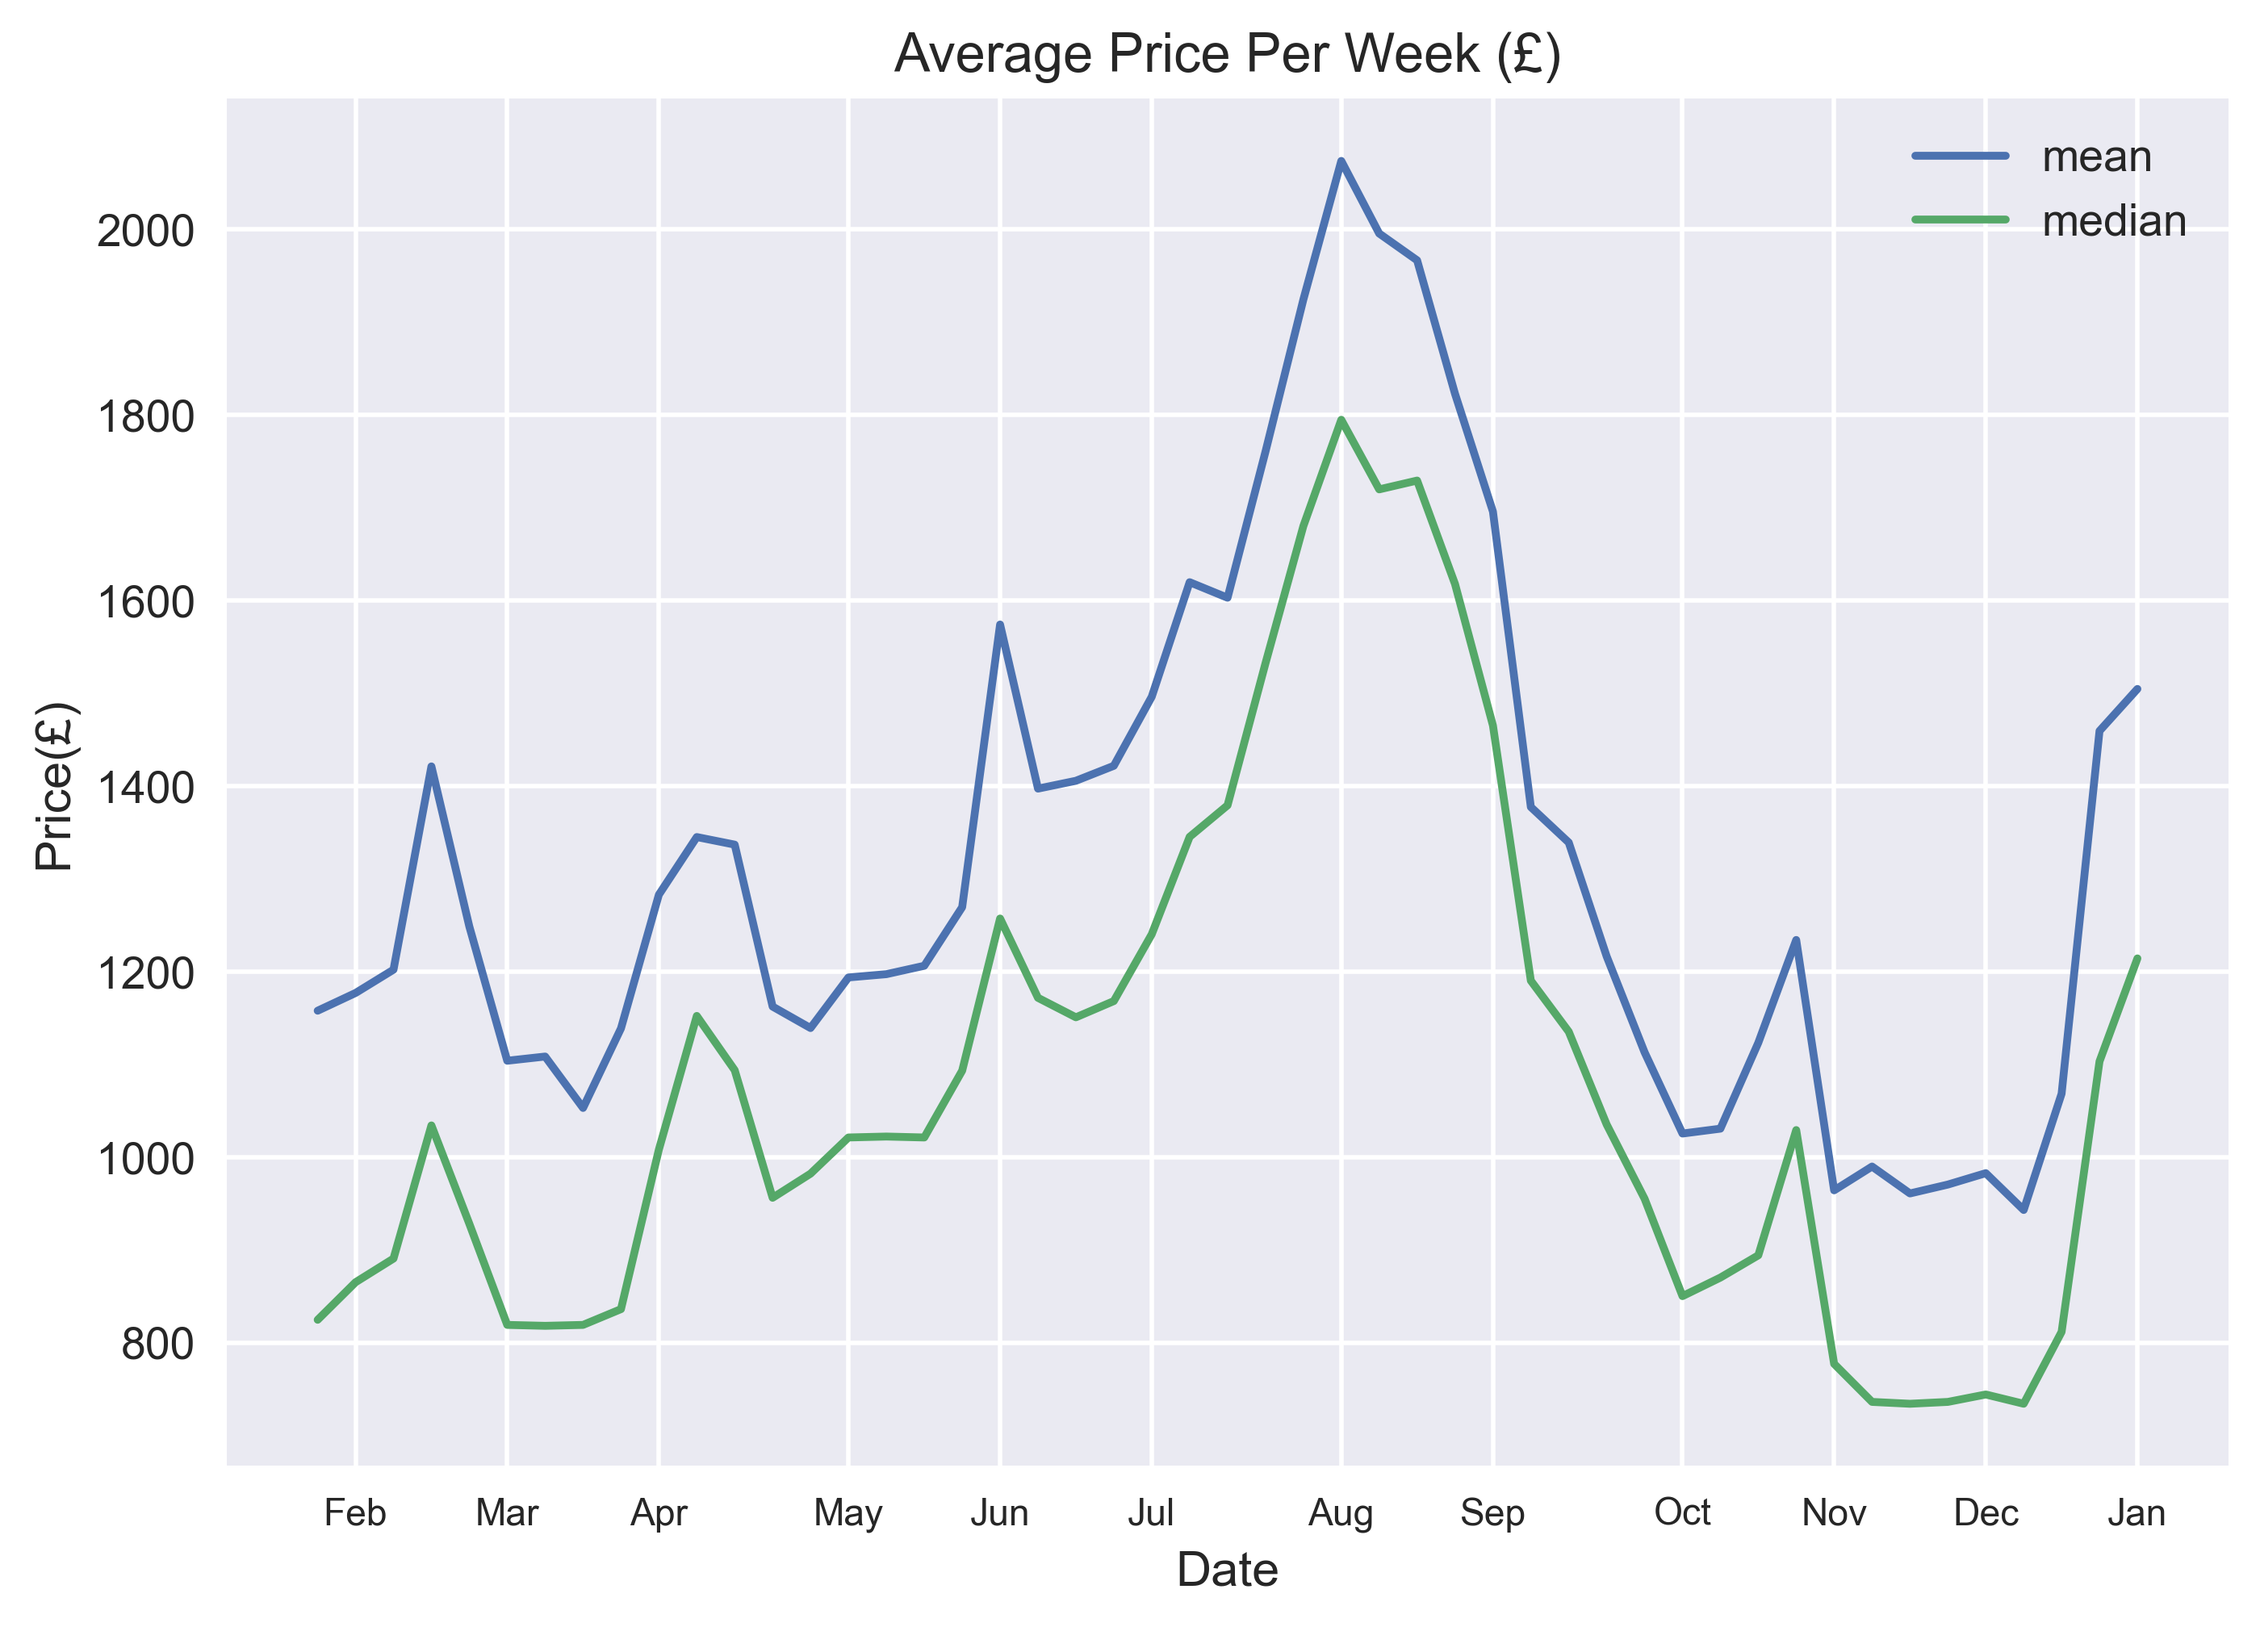
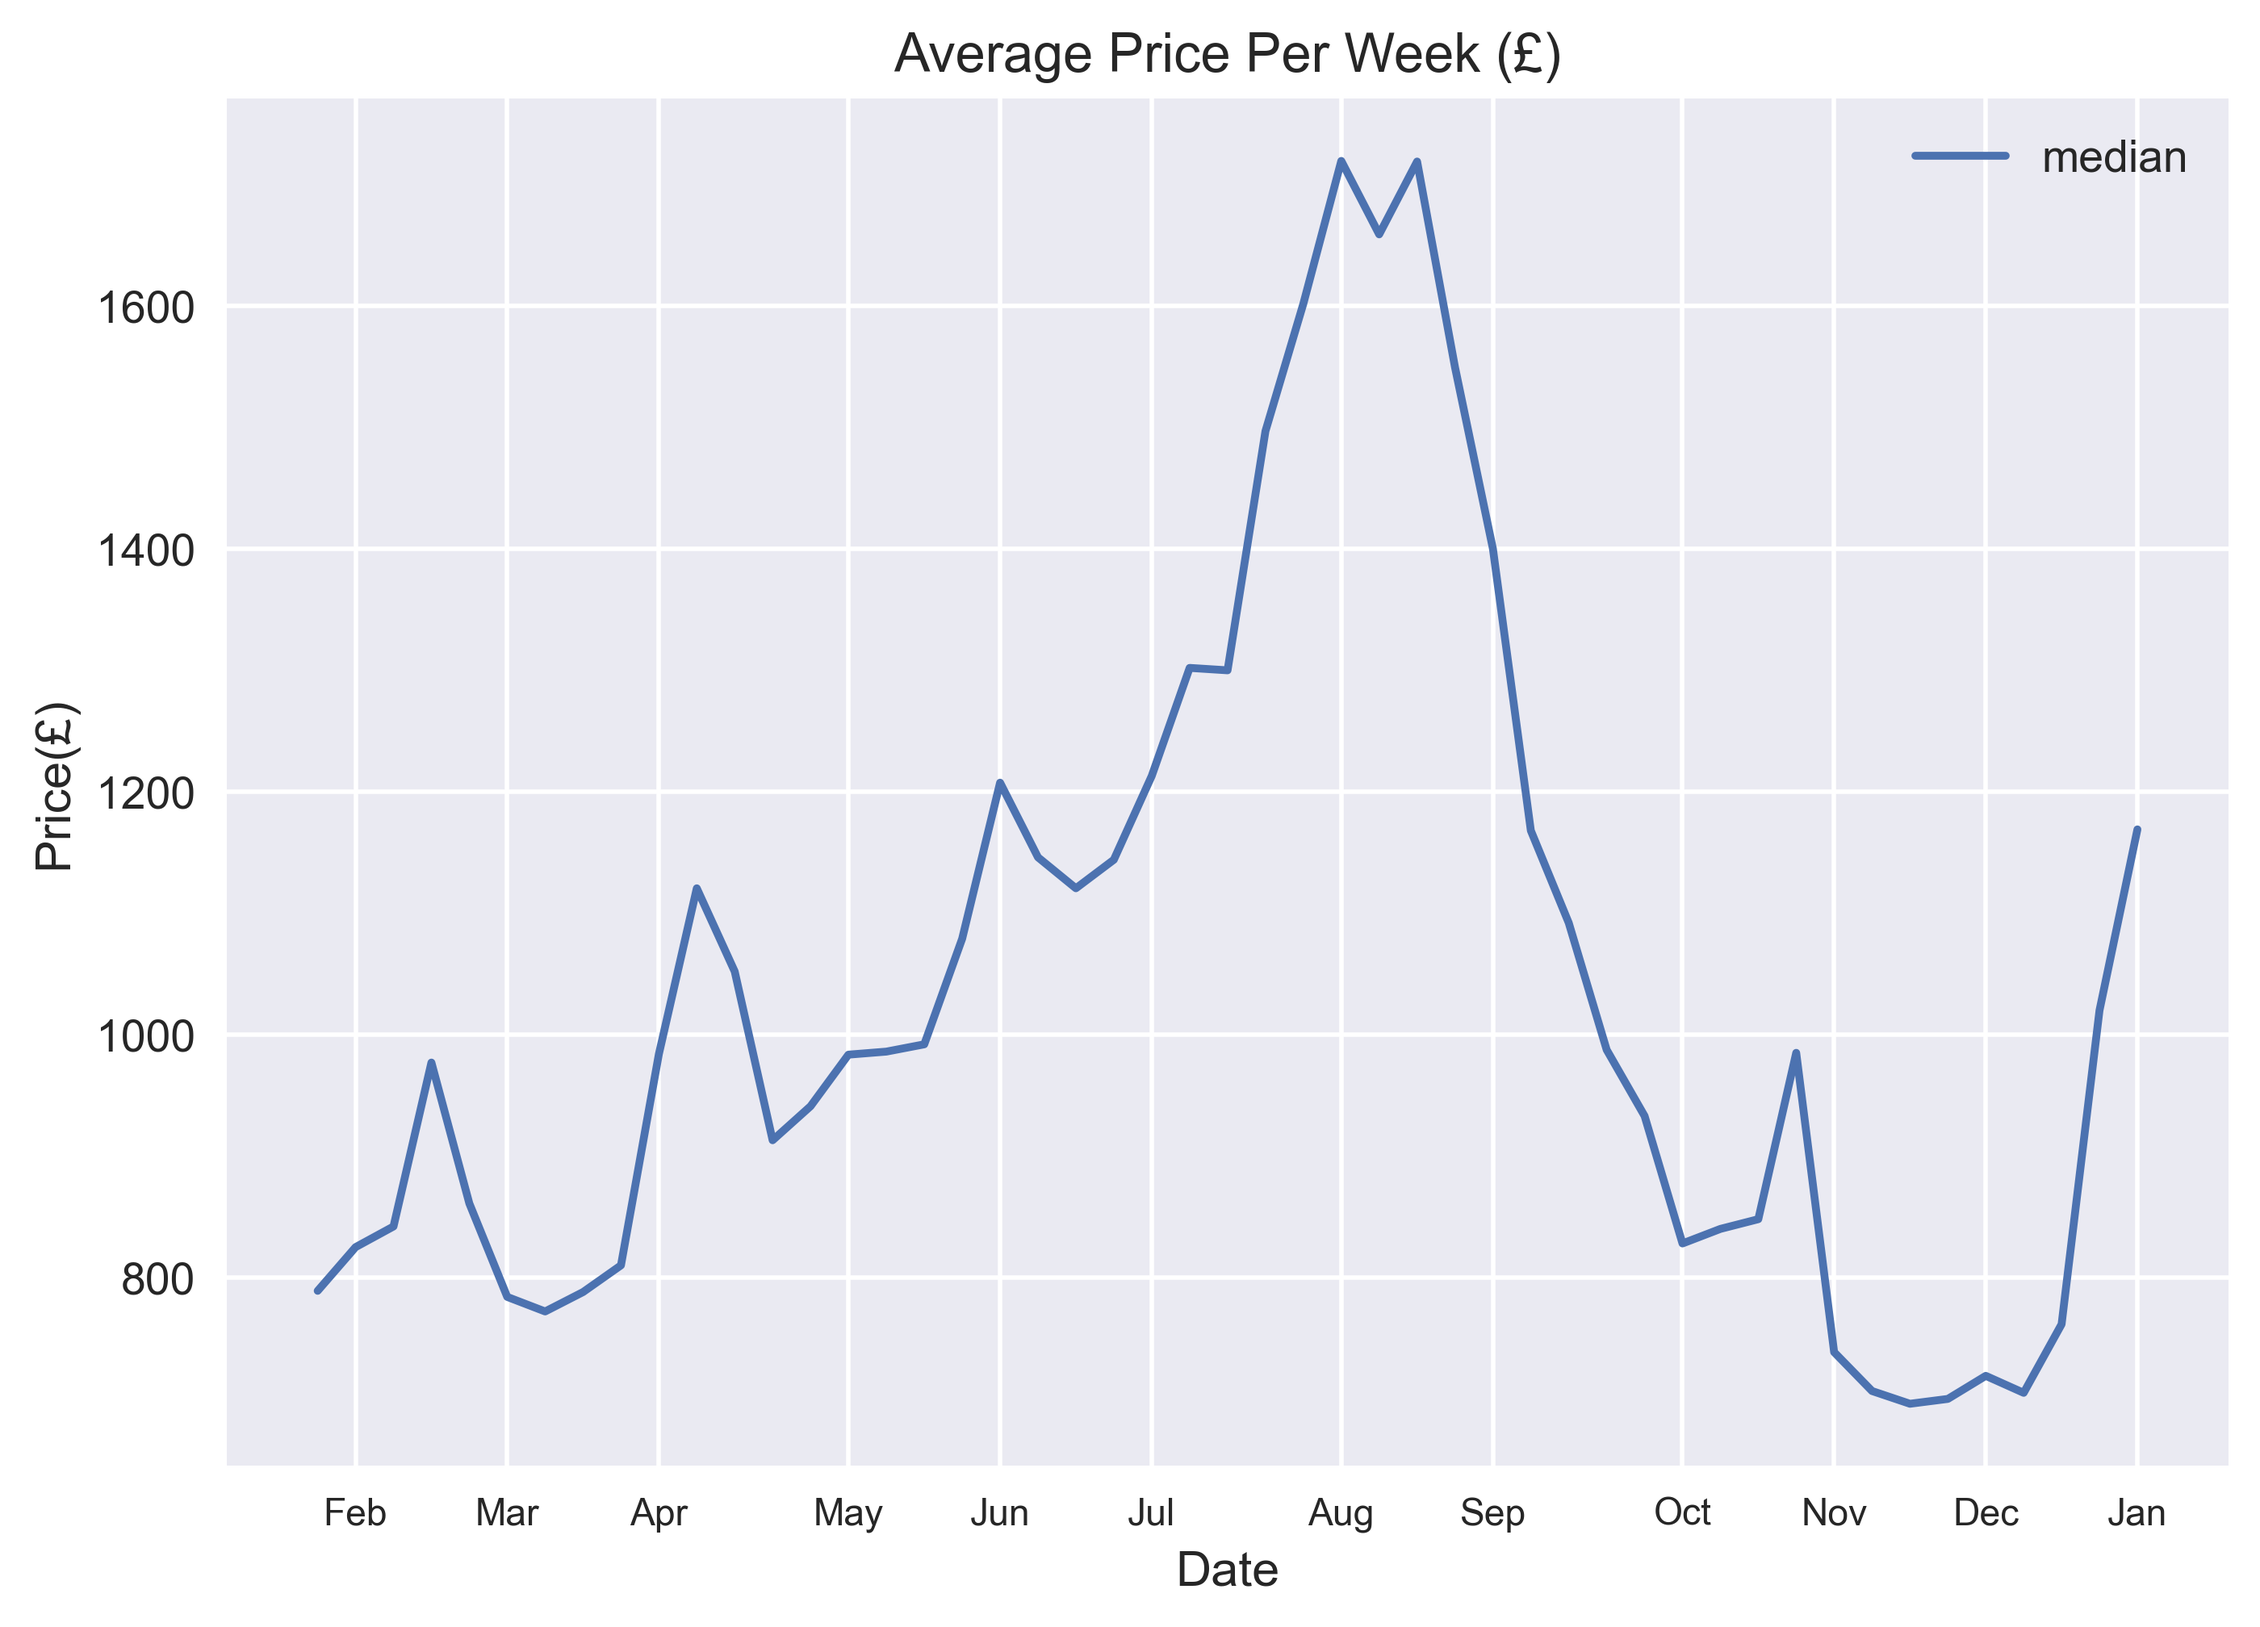
Refactored all_prop_graphs and updated graphs

diff --git a/analysis/all_prop_graphs.py b/analysis/all_prop_graphs.py
@@ -19,20 +19,15 @@ plt.style.use('seaborn')
 
 print(avg_all)
 
-avg = avg_all.plot.line(x='date', y=['mean', 'median'], title='Average Price Per Week (£)')
-avg.set_xlabel('Date')
-avg.set_ylabel('Price(£)')
-avg.set_xticks(month_index)
-avg.set_xticklabels(months, fontsize='small')
+def graph(col, title, output=False):
+    avg = avg_all.plot.line(x='date', y=col, title=title)
+    avg.set_xlabel('Date')
+    avg.set_ylabel('Price(£)')
+    avg.set_xticks(month_index)
+    avg.set_xticklabels(months, fontsize='small')
+    if output:
+        plt.savefig(output, dpi=400, bbox_inches='tight')
+    plt.show()
 
-# plt.savefig('graphs/average.png', dpi=400, bbox_inches='tight')
-
-minp = avg_all.plot.line(x='date', y=['max', 'min'], title='Minimum and Maximum Price Per Week (£)')
-minp.set_xlabel('Date')
-minp.set_ylabel('Price(£)')
-minp.set_xticks(month_index)
-minp.set_xticklabels(months, fontsize='small')
-
-# plt.savefig('graphs/min.png', dpi=400, bbox_inches='tight')
-
-plt.show()
+graph(['median'], 'Average Price Per Week (£)', 'graphs/average.png')
+graph(['max', 'median', 'min'], 'Maximum, Median, and Minimum Price Per Week', 'graphs/max_med_min.png')

diff --git a/analysis/room_graphs.py b/analysis/room_graphs.py
@@ -23,7 +23,7 @@ month_index = dates['month_ind']
 
 plt.style.use('seaborn')
 
-def graph(col, title, output=False):
+def bed_graph(col, title, output=False):
     fig1 = plt.figure()
     ax1 = fig1.add_subplot(1,1,1)
 
@@ -44,6 +44,6 @@ def graph(col, title, output=False):
         plt.savefig(output, dpi=400, bbox_inches='tight')
     plt.show()
 
-graph('median', 'Median Price of 2-5 Bedroom Accommodation', 'graphs/average_bedrooms.png')
-graph('min', 'Minimum Price of 2-5 Bedroom Accommodation', 'graphs/minimum_bedrooms.png')
-graph('max', 'Maximum Price of 2-5 Bedroom Accommodation', 'graphs/maximum_bedrooms.png')
+bed_graph('median', 'Median Price of 2-5 Bedroom Accommodation', 'graphs/average_bedrooms.png')
+bed_graph('min', 'Minimum Price of 2-5 Bedroom Accommodation', 'graphs/minimum_bedrooms.png')
+bed_graph('max', 'Maximum Price of 2-5 Bedroom Accommodation', 'graphs/maximum_bedrooms.png')
